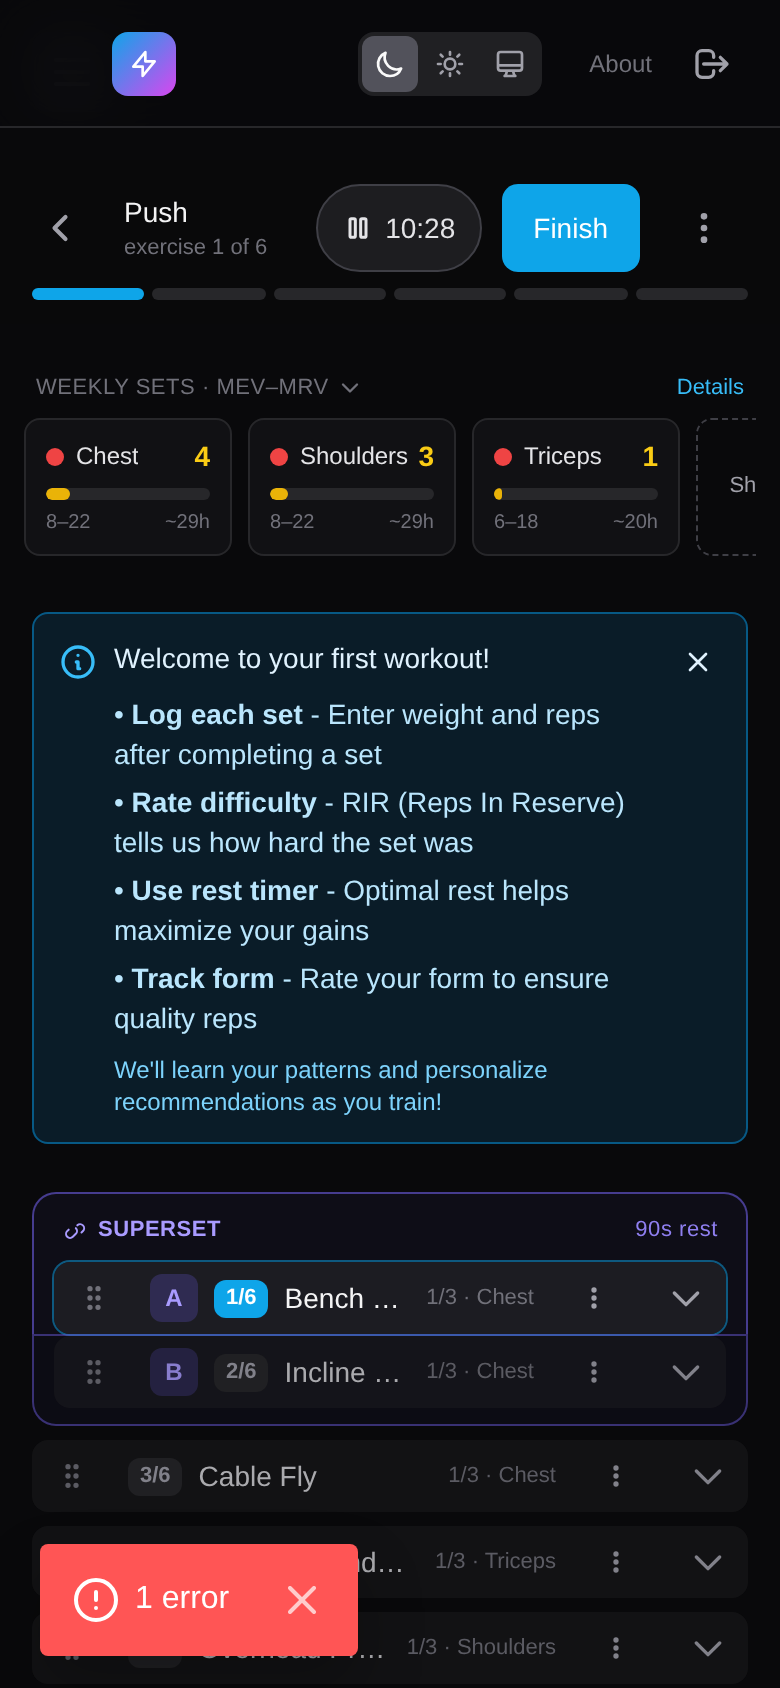
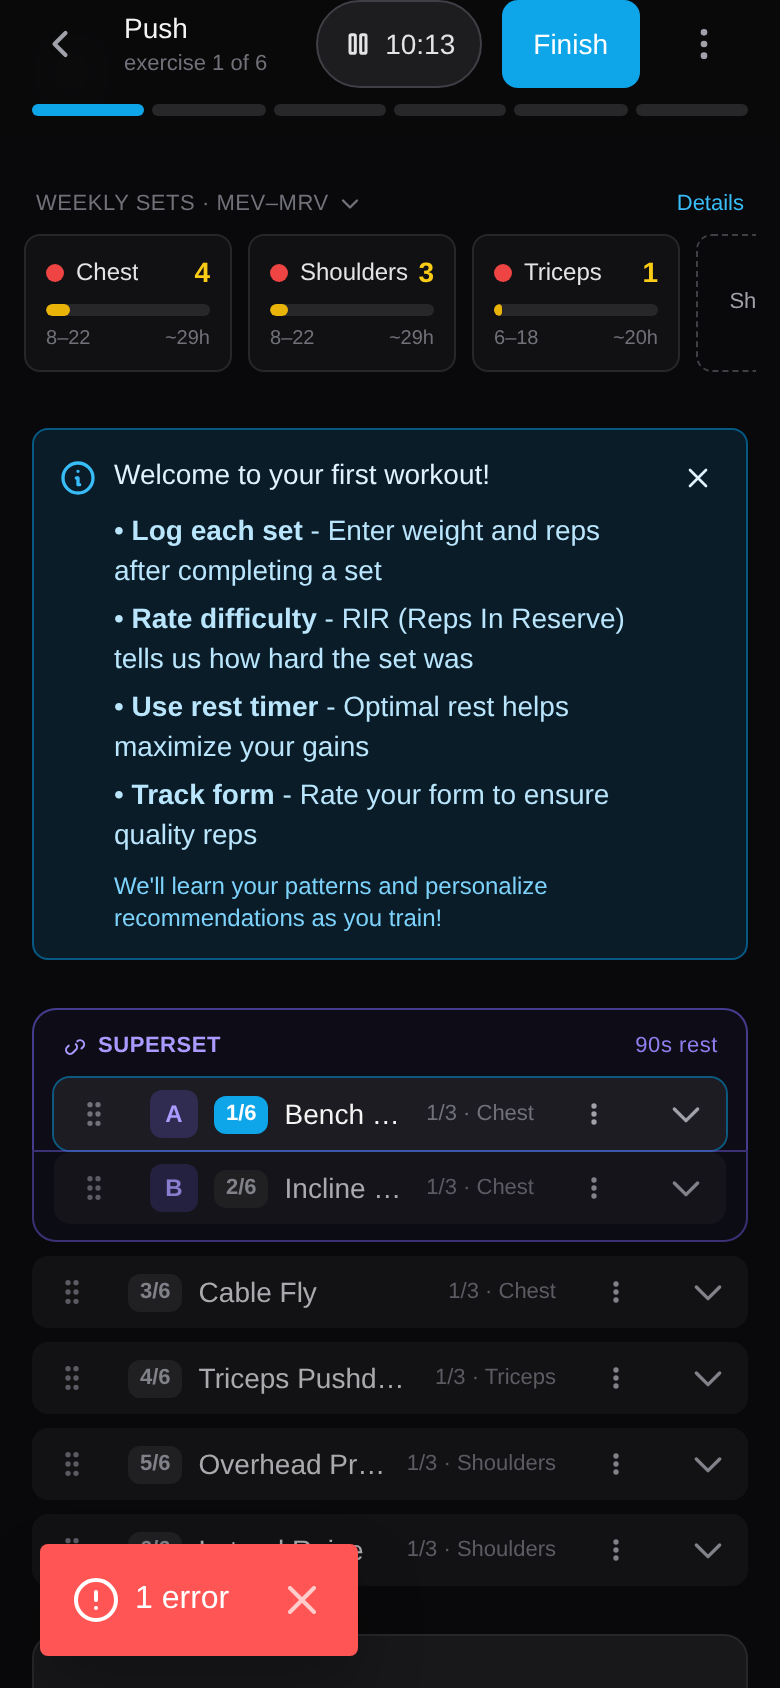
Build row overflow menu items at open time, not at card render
Follow-up to #508 (Codex review finding): the memoized ExerciseCard can
legitimately skip re-rendering when only a NEIGHBOR's superset state
changes, but its ⋮ menu items ('Link with {next}') depend on neighboring
blocks. A static items array built during the card's previous render could
then offer a stale link action whose callback closes over outdated blocks
state (e.g. re-grouping an already-linked neighbor and orphaning its
partner).

RowOverflowMenu now accepts getItems, evaluated on each of its own renders
— in particular when the trigger click opens it — so the expanded card's
menu is always built from the page's current state via the identity-stable
latest-ref builder. The collapsed rows keep passing items (the page
re-renders freely, so they were never stale).

ux-audit/verify/compact-exercise-header.mjs gains a regression assertion
(link blocks 1+2 from a collapsed row, then open block 0's expanded-card
menu and require no stale 'Link with next'); verified to fail on the
pre-fix code and pass with the fix. superset-menu.mjs still 25/25; jest
workout suites green.

Claude-Session: https://claude.ai/code/session_01CGjqbFdKyToYKycpgqpxTr

diff --git a/components/workout/RowOverflowMenu.tsx b/components/workout/RowOverflowMenu.tsx
@@ -20,7 +20,16 @@ export interface RowMenuItem {
 }
 
 interface RowOverflowMenuProps {
-  items: RowMenuItem[];
+  items?: RowMenuItem[];
+  /**
+   * Lazily builds the items on each render of this component — in particular
+   * when the trigger is clicked (open toggles state → re-render → fresh call).
+   * Use this instead of `items` when the parent is memoized and may skip
+   * renders while the underlying menu data changes (e.g. an expanded
+   * ExerciseCard whose neighbor's superset state changed): a static `items`
+   * array would then go stale, offering actions built from outdated state.
+   */
+  getItems?: () => RowMenuItem[];
   /** Accessible label for the trigger button. */
   ariaLabel?: string;
   /** Forwarded to the trigger for e2e targeting. */
@@ -62,11 +71,13 @@ function readSafeAreaInsets(): { top: number; bottom: number } {
  * returns focus to the trigger) with the matching aria roles.
  */
 export function RowOverflowMenu({
-  items,
+  items: itemsProp,
+  getItems,
   ariaLabel = 'More actions',
   testId,
   dataBlockId,
 }: RowOverflowMenuProps) {
+  const items = getItems ? getItems() : (itemsProp ?? []);
   const [isOpen, setIsOpen] = useState(false);
   const [pos, setPos] = useState<{ top: number; left: number } | null>(null);
   const [activeIndex, setActiveIndex] = useState(0);

diff --git a/components/workout/ExerciseCard.tsx b/components/workout/ExerciseCard.tsx
@@ -1765,11 +1765,15 @@ export const ExerciseCard = memo(function ExerciseCard({
                 row-menu-trigger. */}
             {!isCollapsed && getMenuItems && listIndex !== undefined && (
               <div className="-my-2.5" onClick={(e) => e.stopPropagation()}>
+                {/* getItems (not items): this card is memoized and can skip
+                    renders while a NEIGHBOR's superset state changes, which
+                    the page-built menu depends on ("Link with {next}"). Lazy
+                    build on open always reads the freshest page state. */}
                 <RowOverflowMenu
                   testId="row-menu-trigger"
                   dataBlockId={block.id}
                   ariaLabel={`Actions for ${exercise.name}`}
-                  items={getMenuItems(listIndex)}
+                  getItems={() => getMenuItems(listIndex)}
                 />
               </div>
             )}
